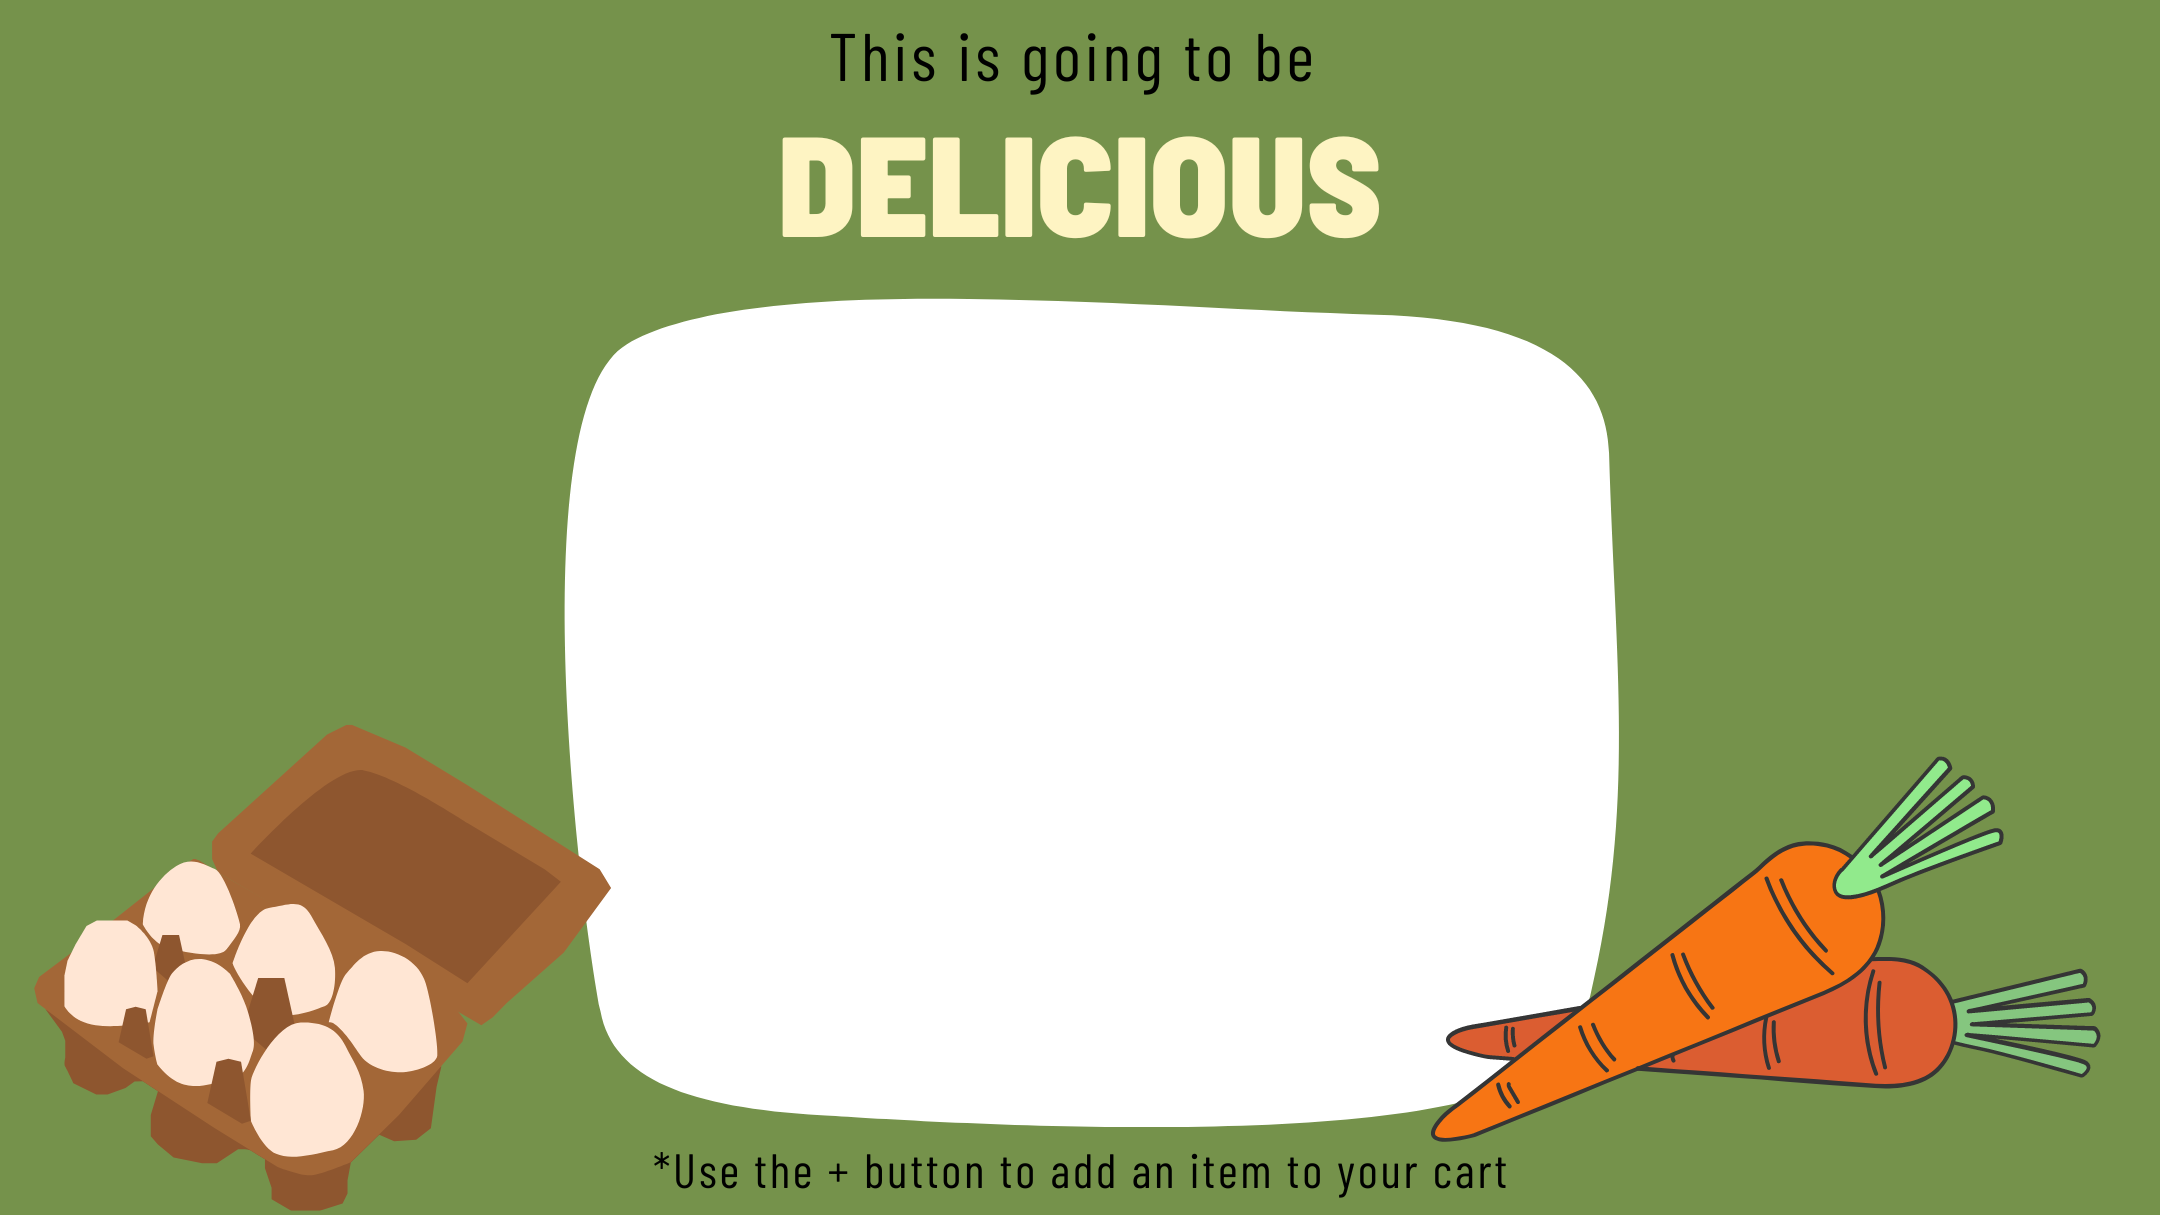
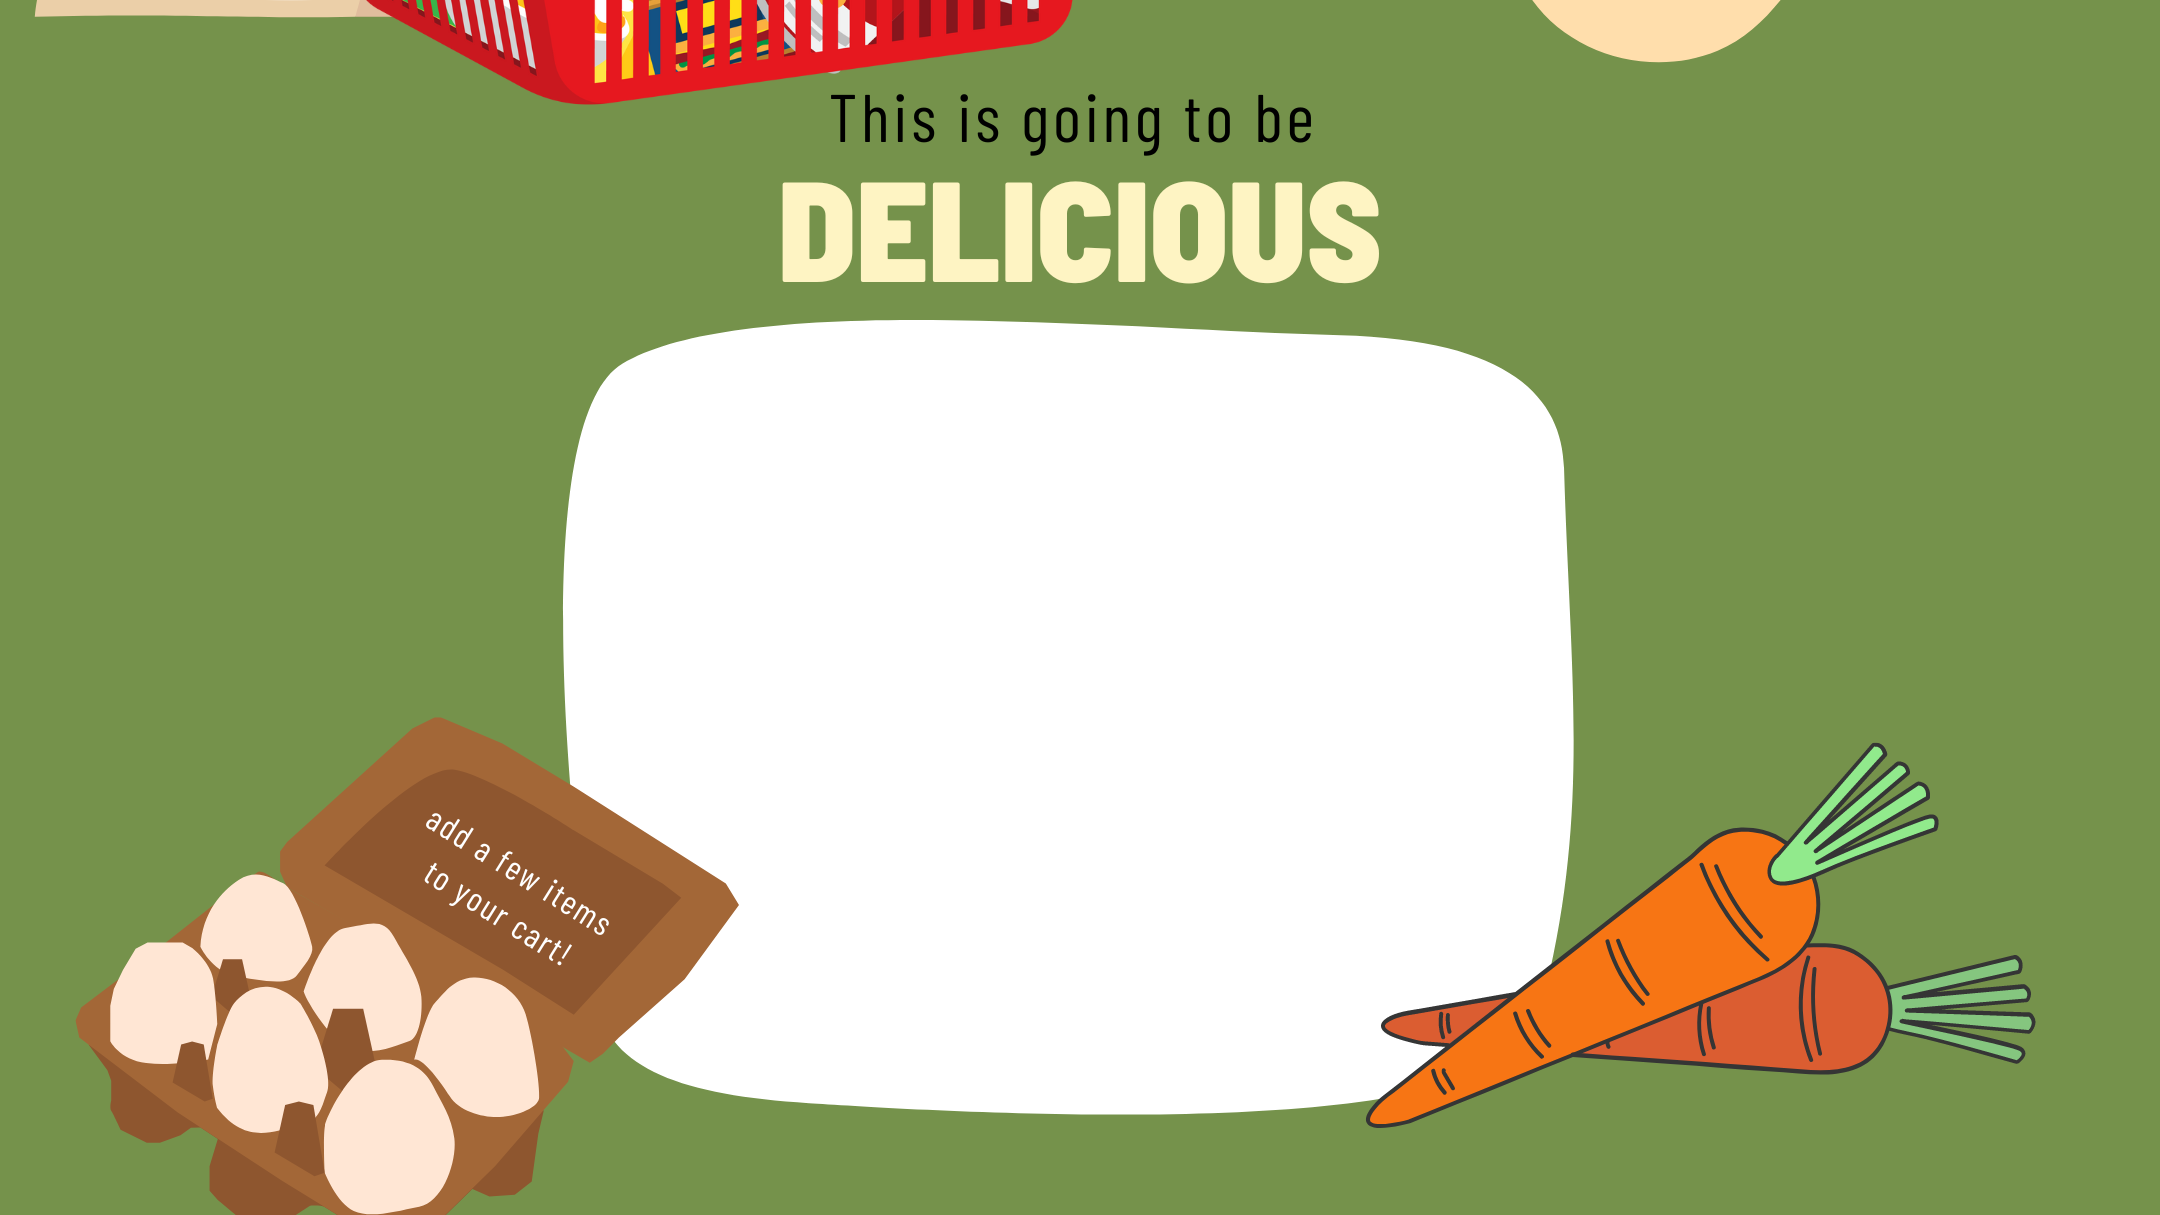
finished with Page design

Changed region(s): [[0.0, 0.0, 0.9926, 0.9745], [0.0, 0.5786, 0.3412, 1.0], [0.7134, 0.0, 0.8375, 0.0609]]

diff --git a/src/Components/Home/GroceryHome.js b/src/Components/Home/GroceryHome.js
@@ -19,8 +19,21 @@ export const Groceries = () => {
     const [servingInput, setServingInput] = useState(0)
     const navigate = useNavigate()
 
+    const [user, setUser] = useState([])
+    const [filteredUser, setFilteredUser] = useState([])
+
     const localGroceryUser = localStorage.getItem("grocery_user")
     const groceryUserObject = JSON.parse(localGroceryUser)
+
+    const fetchData = () => {
+        return fetch("http://localhost:8088/users")
+              .then((response) => response.json())
+              .then((data) => setUser(data));
+      }
+      useEffect(() => {
+        fetchData();
+      },[])
+
 
     const fetchGroceryItems = () => {
         return fetch(`http://localhost:8088/groceryItems`)
@@ -41,49 +54,6 @@ export const Groceries = () => {
                 )
             })
     }
-
-    // const displyUser = () => {
-    //     return fetch(`http://localhost:8088/users/${fullName}`)
-    // }
-
-    //  const moveItemToCart = (id) => {
-    //     // event.preventDefault()
-
-    //     return fetch(`http://localhost:8088/groceryItems/${id}`, {
-    //         method: "PUT",
-    //         headers: {
-    //             "Content-Type": "application/json"
-    //         },
-    //         body: JSON.stringify(groceryItem)
-    //     })
-    //         .then(response => response.json())
-    //         .then(() => {
-    //             navigate("/")
-    //         })
-    // }
-    //     const moveItemToCart = (event) => {
-    //         event.preventDefault()
-
-
-    //         const cartItemToSendToAPI = {
-    //                 userId: groceryUserObject.id,
-    //                 itemName: cartItems.itemName,
-    //                 itemPrice: cartItems.itemPrice,
-    //                 itemServings: cartItems.itemServings,
-    //         }
-    //         return fetch(`http://localhost:8088/cartItems`, {
-    //             method: "POST",
-    //             headers: {
-    //                     "Content-Type": "application/json"
-    //             },
-    //             body: JSON.stringify(groceryItemToSendToAPI)
-    //     })
-    //             .then(response => response.json())
-    //             .then(() => {
-    //                     navigate("/")
-    //     })
-
-    // }
 
     const addToCart = (id) => {
 
@@ -166,10 +136,19 @@ export const Groceries = () => {
         <article className="grocery_Home">
         <div className="home-banner-container">
             <div className="home-bannerImage-container">
-                {/* <div> {user.fullName}</div> */}
                 <NavBar/>
+                <label className="user-print">
+                  {user && user.length > 0 && user.map((groceryUserObject) => (
+                  <div key={groceryUserObject.id}>{groceryUserObject.fullName}</div>
+                   ))}
+               </label>
                 <img src={Welcome} alt="" />
             </div>
+        </div>
+
+        <div className="newItem-banner-container">
+            <img className="newItem-image" src={Three} alt="" />
+            <button className="create_New_Item_Button" onClick={() => navigate("/create")}>Add New Item</button>
         </div>
 
         <div className="input-banner-container">
@@ -179,20 +158,15 @@ export const Groceries = () => {
             onChange={(evt) => {setServingInput(evt.target.value)}}
             />
         </div>
-
-        <div className="newItem-banner-container">
-            <img className="newItem-image" src={Three} alt="" />
-            <button className="create_New_Item_Button" onClick={() => navigate("/create")}>Add New Item</button>
-        </div>
-
-
+        
             <section className="grocery-list-container">
             <img className="groceryList-image" src={Four} alt="" />
+            <div className="grocery-list"> 
             
                 {
                     filteredGroceries.map(
                         (groceryItem) => {
-                            return <section className="grocery-list">
+                            return <section className="grocery-item">
                                 <header>
                                     <Link to={`/groceryItems/${groceryItem.id}/edit`}>{groceryItem.itemName}</Link>
                                 </header>
@@ -206,50 +180,52 @@ export const Groceries = () => {
                                     </button>
                                     <button
                                         onClick={() => addToCart(groceryItem.id)}
-                                        className="btn btn-primary">
-                                        ++
+                                        className="add-to-cart-button">
+                                        Add To Cart
                                     </button>
                                 </footer>
                             </section>
                         }
                     )
                 }
+                </div>
             </section>
             
             <section className="cart-plus-calculation">
             <section className="cart-container">
             <img className="cart-image" src={Five} alt="" />
+            <div className="cart-list"> 
                 {
                     filteredCartGroceries.map(
                         (cartItem) => {
-                            return <section className="cart-list">
+                            return <section className="cart-item">
                                 <header>{cartItem.itemName}</header>
                                 <section>Price: ${cartItem.itemPrice}</section>
                                 <section>Servings Per Container: {cartItem.itemServings}</section>
                                 <footer>
                                     <button
                                         onClick={() => removeFromCart(cartItem.id)}
-                                        className="btn btn-primary">
-                                        --
+                                        className="remove-from-cart-button">
+                                        Remove From Cart
                                     </button>
                                 </footer>
                             </section>
                         }
                     )
                 }
-                
+            </div>
 
             </section>
-            <section className="calculation">
+            <section className="calculation-container">
 
                     <div className="total">
                         {groceryTotal}
                     </div>
 
-                    <div className="calculat_button">
+                    <div className="calculation">
                         <button
                             onClick={(event) => {CalculateTotal(event)}}
-                            className="btn btn-primary">
+                            className="calculate-button">
                             Calculate Total
                         </button>
                     </div>

diff --git a/src/GroceryCalc.css b/src/GroceryCalc.css
@@ -86,6 +86,15 @@ nav {
   z-index: -1;
   background-color: #FFDEAC;
 }
+
+.user-print {
+color: black;
+position: absolute;
+top: 43%;
+left: 50%;
+transform: translate(-50%, -50%);
+font-size: 50px;
+}
 /* .................................... */
 
 
@@ -136,10 +145,10 @@ nav {
    
   padding: 5px;
   background-color: white;
-  border: 2px solid red;
+  /* border: 2px solid red; */
 
   position: absolute;
-  top: 50%;
+  top: 60%;
   left: 50%;
   transform: translate(-50%, -50%);
   padding: 10px;
@@ -156,27 +165,38 @@ nav {
   position: relative;
 }
 
-.groceryList-image {
-
+.grocery-item {
+  border: 2px solid black;
+  border-radius: 5px;
+  padding: 5px;
+  margin: 5px;
 }
 
 .grocery-list {
-  padding: 5px;
   background-color: white;
-  border: 2px solid red;
+  border: 2px solid rgb(247, 245, 239);
   cursor: pointer;
-  border-radius: 5px;
   overflow-y: scroll;
 
   position: absolute;
-  top: 60%;
+  top: 58%;
   left: 50%;
   transform: translate(-50%, -50%);
   padding: 10px;
-  height: 500px;
+  height: 450px;
   width: 500px;
   font-size: 20px;
   border-radius: 10px;
+}
+
+.delete_Button {
+  margin: 5px;
+  padding: .5px;
+}
+
+.add-to-cart-button{
+  margin: 5px;
+  padding: .5px;
 }
 /*.................................... */
 
@@ -185,8 +205,11 @@ nav {
   position: relative;
 }
 
-.cart-image {
-
+.cart-item {
+  border: 2px solid black;
+  border-radius: 5px;
+  padding: 5px;
+  margin: 5px;
 }
 
 .cart-list { 
@@ -207,19 +230,44 @@ nav {
   border-radius: 10px;
 }
 
-.calculation {
-  padding: 5px;
-  background-color: white;
-  border: 2px solid rgb(247, 245, 239);
-  /* border: 2px solid red; */
+.total {
+  padding: 2px;
+  background-color: rgba(240, 234, 216, 0.471);
+  /* border: 2px solid rgb(247, 245, 239); */
+  border: 2px solid rgb(240, 234, 216);
   cursor: pointer;
   border-radius: 5px;
+  color: rgb(0, 0, 0);
 
   position: absolute;
-  top: 89%;
-  left: 60%;
+  top: 87%;
+  left: 63%;
+  width: 100px;
   transform: translate(-50%, -50%);
-  padding: 10px;
+  /* padding: 10px; */
+  font-size: 30px;
+  text-align: center;
+}
+
+.remove-from-cart-button {
+  padding: .5px;
+}
+
+.calculate-button {
+color: #484848;
+cursor: pointer;
+border-radius: 5px;
+color: black;
+
+position: absolute;
+top: 92%;
+left: 63%;
+transform: translate(-50%, -50%);
+padding: 5px;
+font-size: 20px;
+text-align: center;
+margin: 5px;
+
 }
 /*.................................... */
 

diff --git a/src/Components/Home/NewItemForm.js b/src/Components/Home/NewItemForm.js
@@ -74,7 +74,7 @@ export const NewItemForm = () => {
                         required autoFocus
                         type="text"
                         className="form-control"
-                        placeholder="ex: 2.00"
+                        placeholder="no need for a $"
                         value={groceryItem.itemPrice}
                         onChange={
                                 (evt) => {

diff --git a/src/Components/Nav/NavBar.js b/src/Components/Nav/NavBar.js
@@ -44,7 +44,7 @@ export const NavBar = () => {
           <a href="">Home</a>
           <a href="">Saved Carts</a>
           <a href="">Profile</a>
-          <a href="" onClick={() => {
+          <a onClick={() => {
                            localStorage.removeItem("grocery_user")
                            navigate("/", {replace: true})
                      }}>Logout</a>
